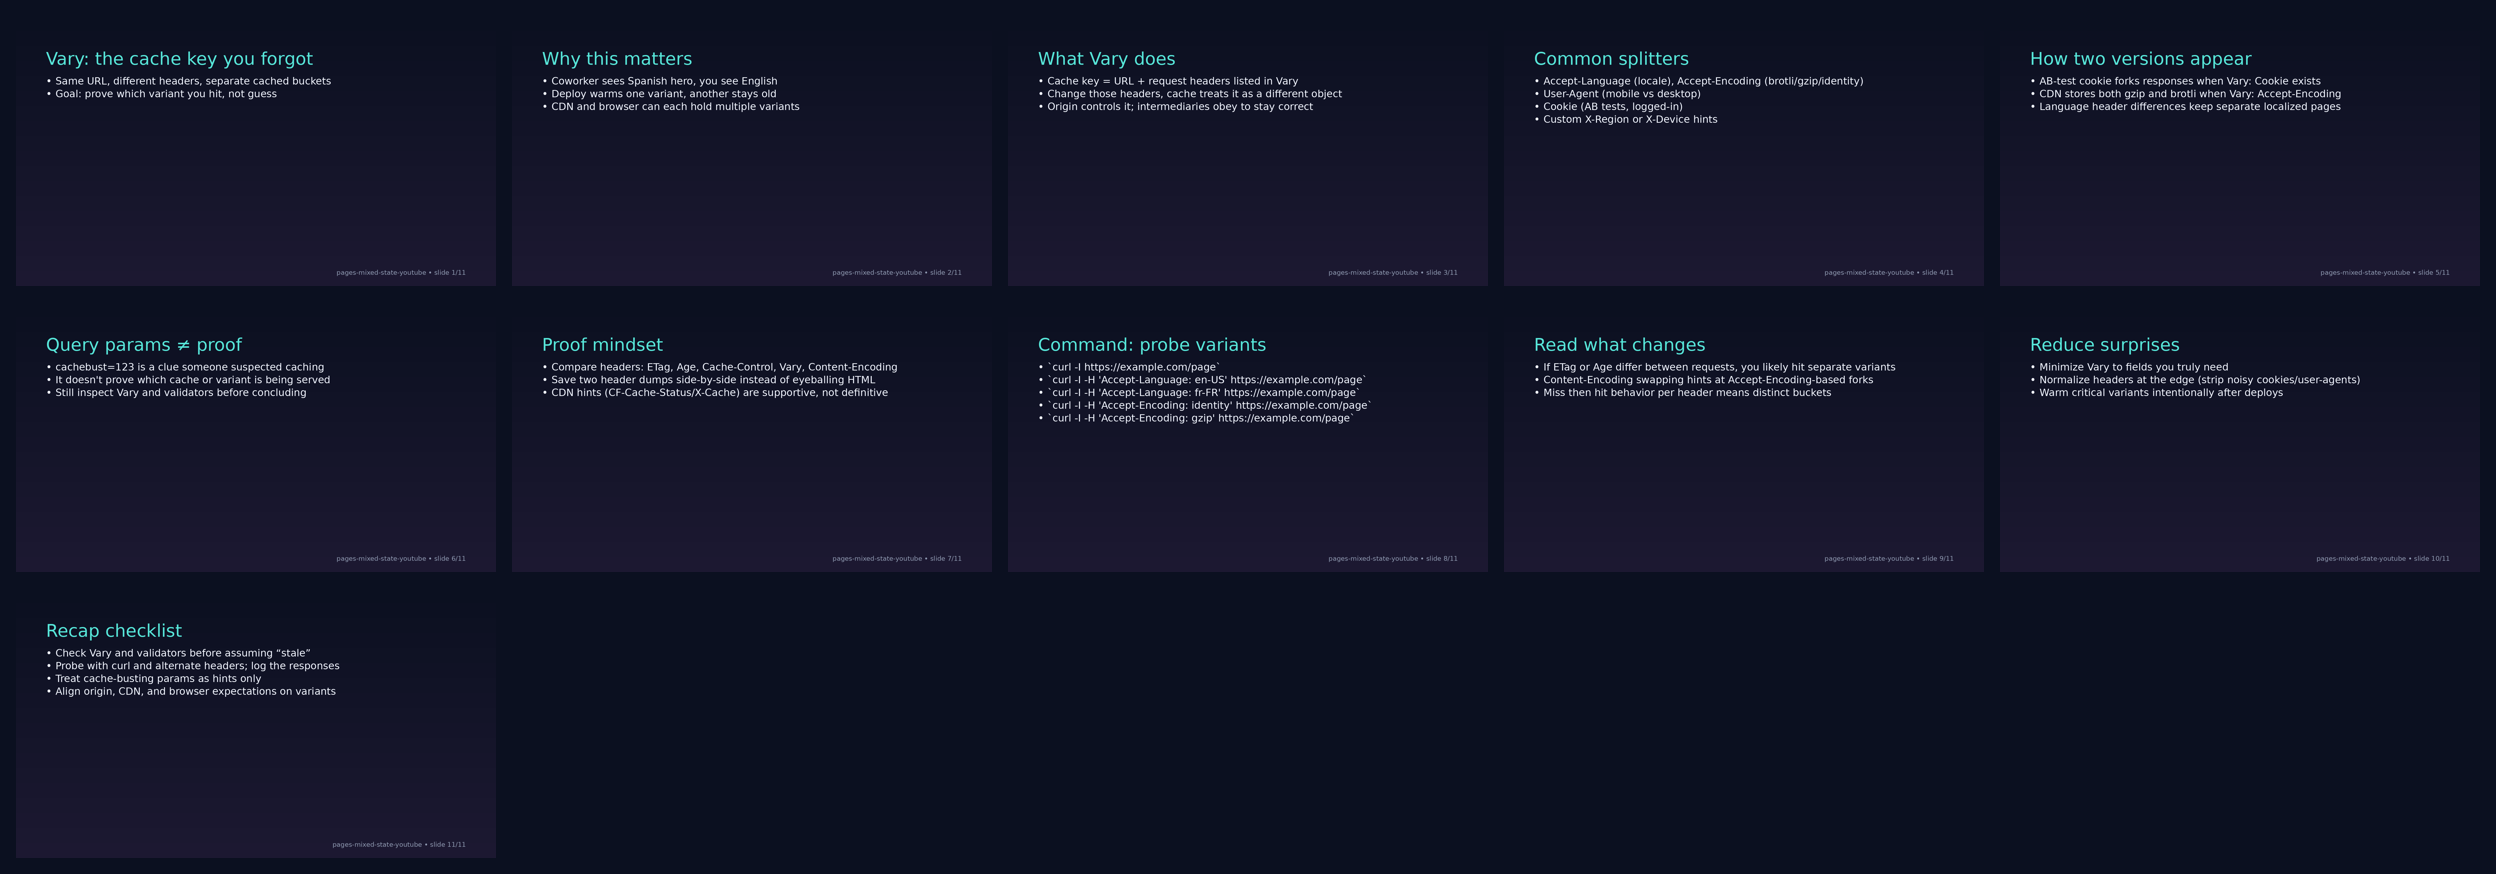
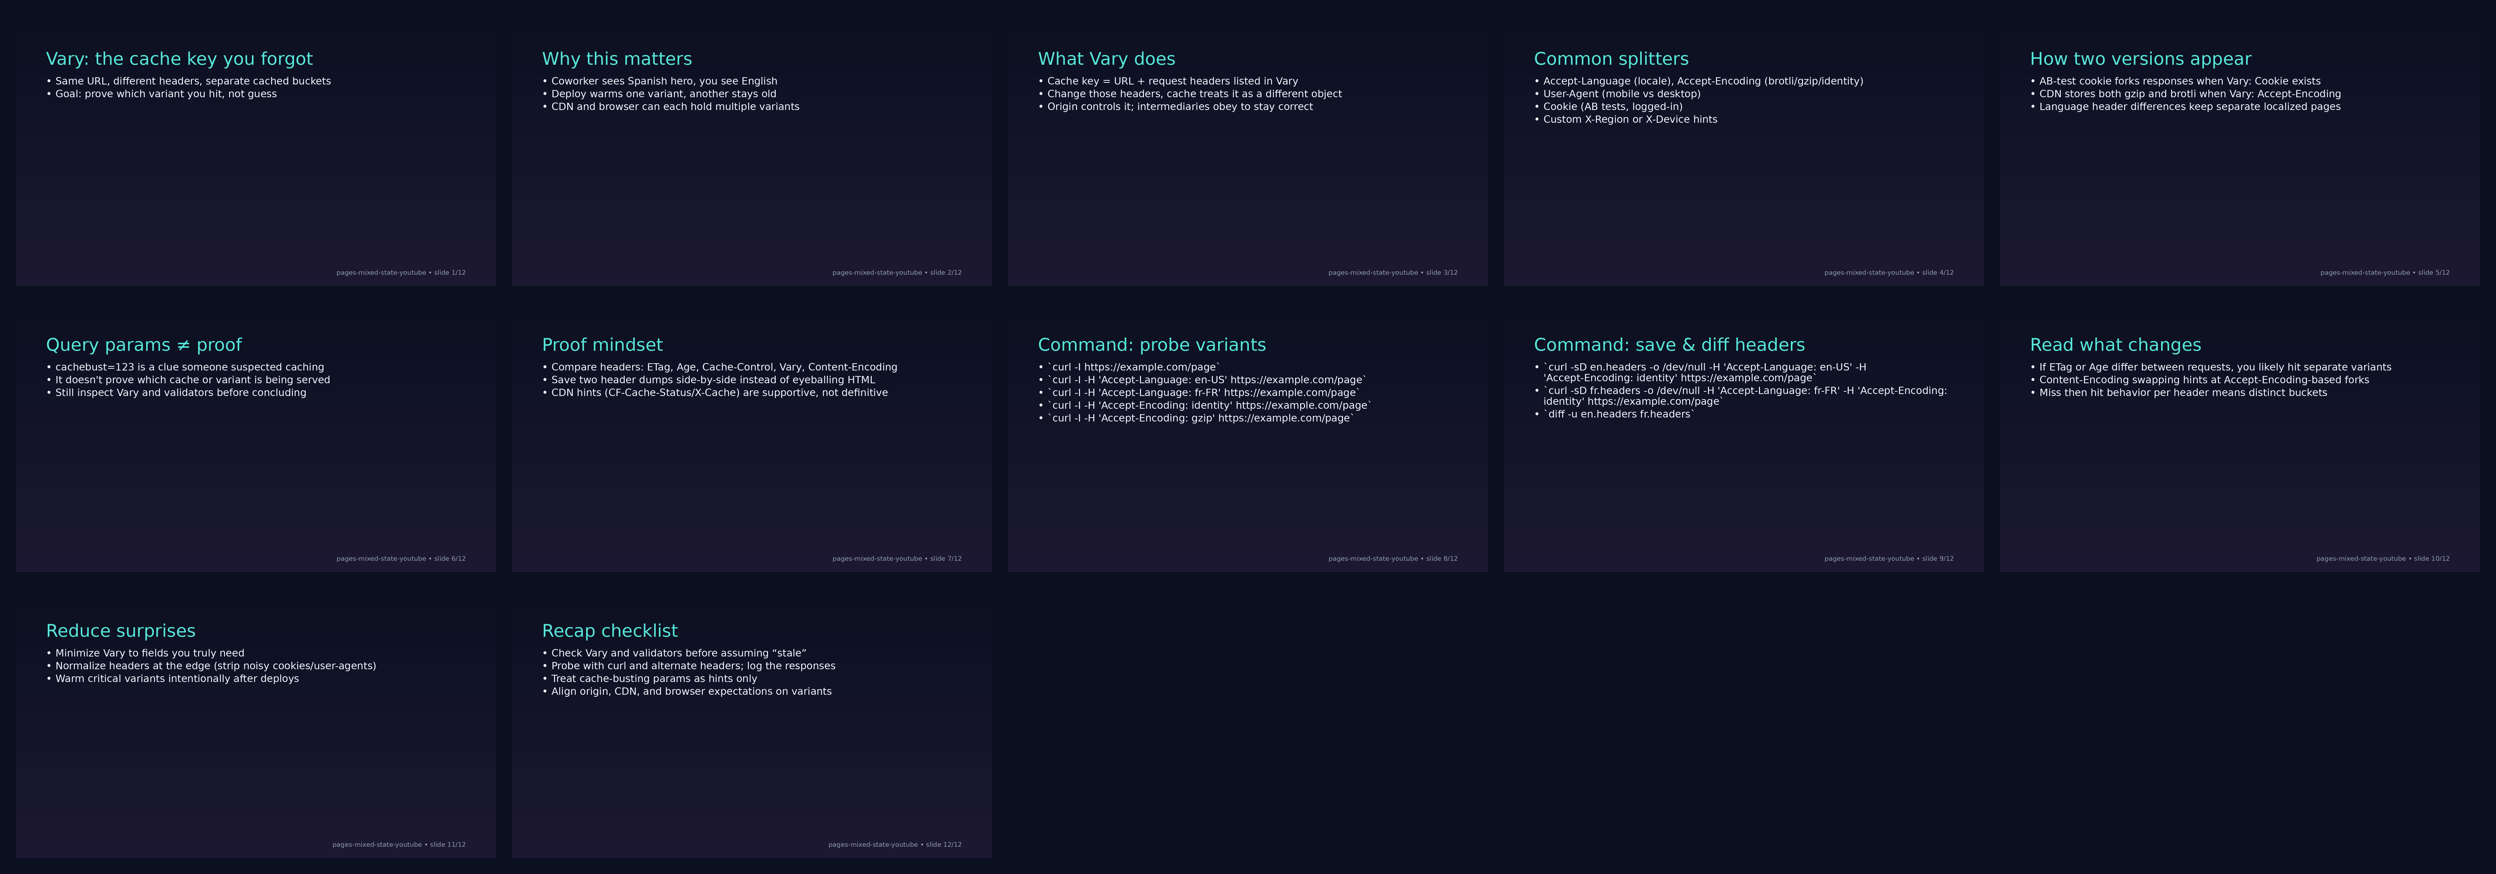
video6: add save-and-diff headers slide

diff --git a/script/VIDEO6_script.md b/script/VIDEO6_script.md
@@ -32,6 +32,11 @@ curl -I -H 'Accept-Language: fr-FR' https://example.com/page
 # Compression variant probe (explicit is easier to reason about)
 curl -I -H 'Accept-Encoding: identity' https://example.com/page
 curl -I -H 'Accept-Encoding: gzip' https://example.com/page
+
+# Save headers and diff them (repeatable proof)
+curl -sD en.headers -o /dev/null -H 'Accept-Language: en-US' -H 'Accept-Encoding: identity' https://example.com/page
+curl -sD fr.headers -o /dev/null -H 'Accept-Language: fr-FR' -H 'Accept-Encoding: identity' https://example.com/page
+diff -u en.headers fr.headers
 ```
 - If the ETag or Age differs between these requests, you're likely hitting different cached variants. If ETag is same but Age differs wildly, you might be hitting different cache nodes or buckets.
 - Watch for CDN hints (`CF-Cache-Status`, `X-Cache`) changing between header sets. A miss followed by a hit on the second command suggests a separate variant was filled.
